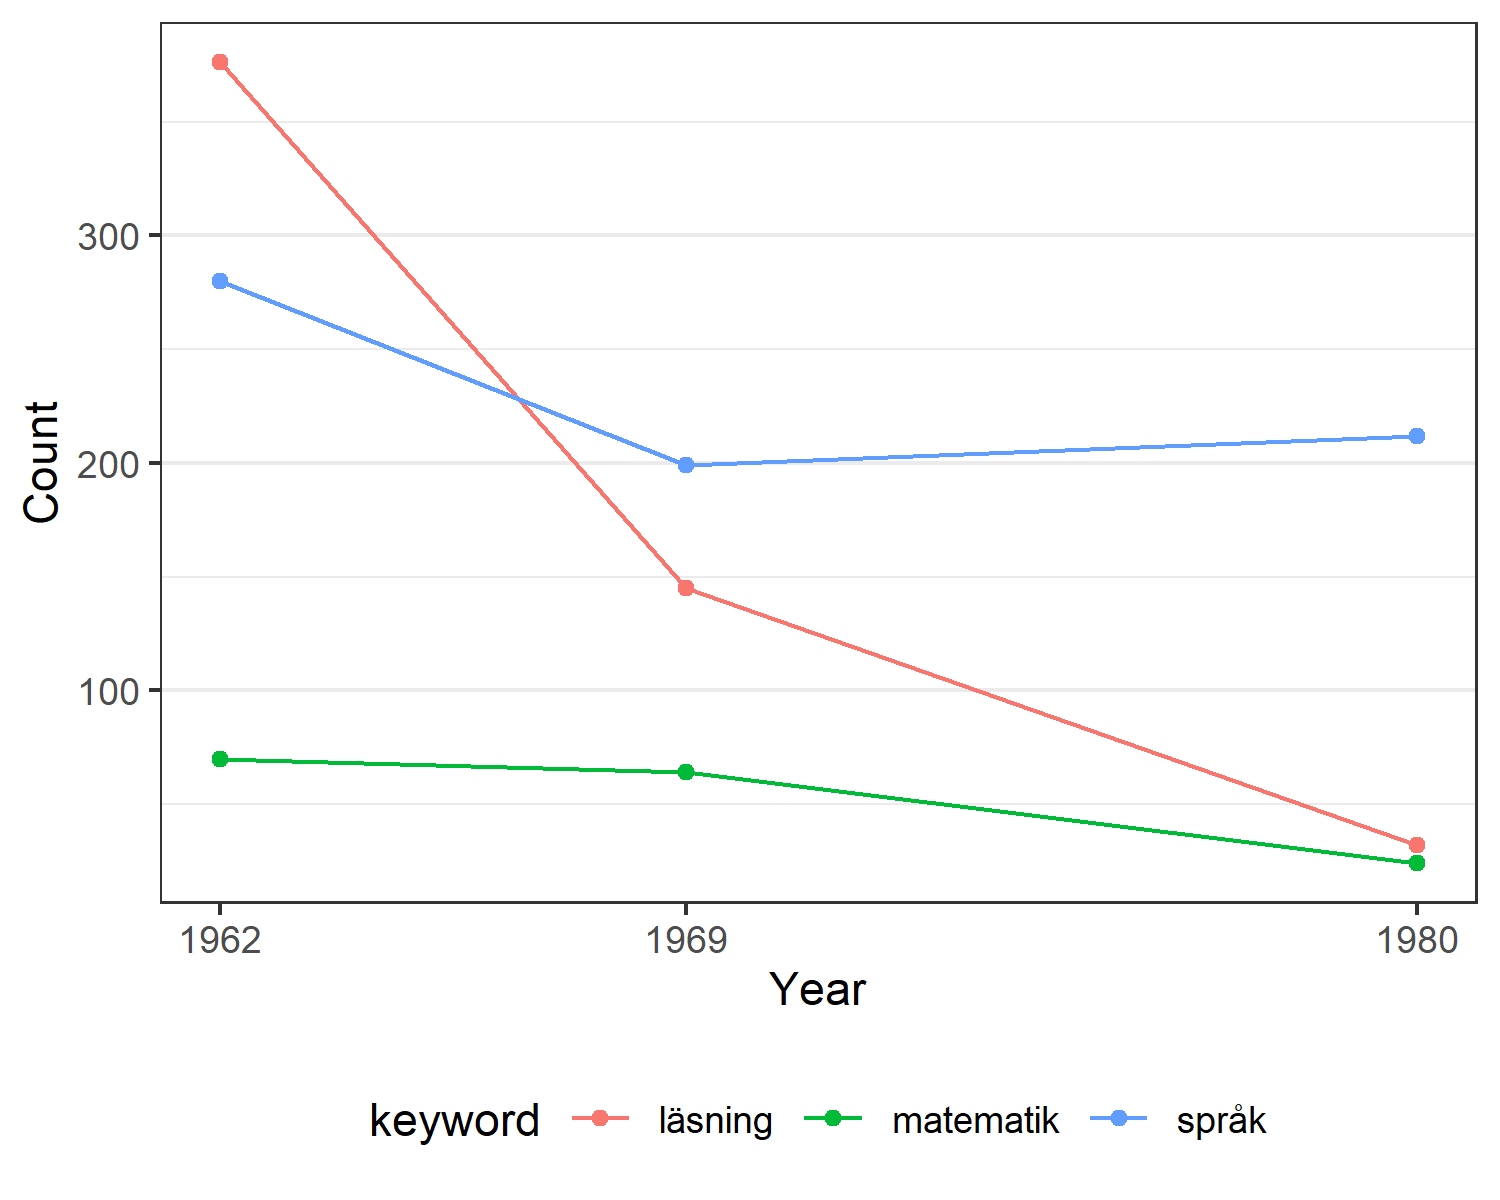
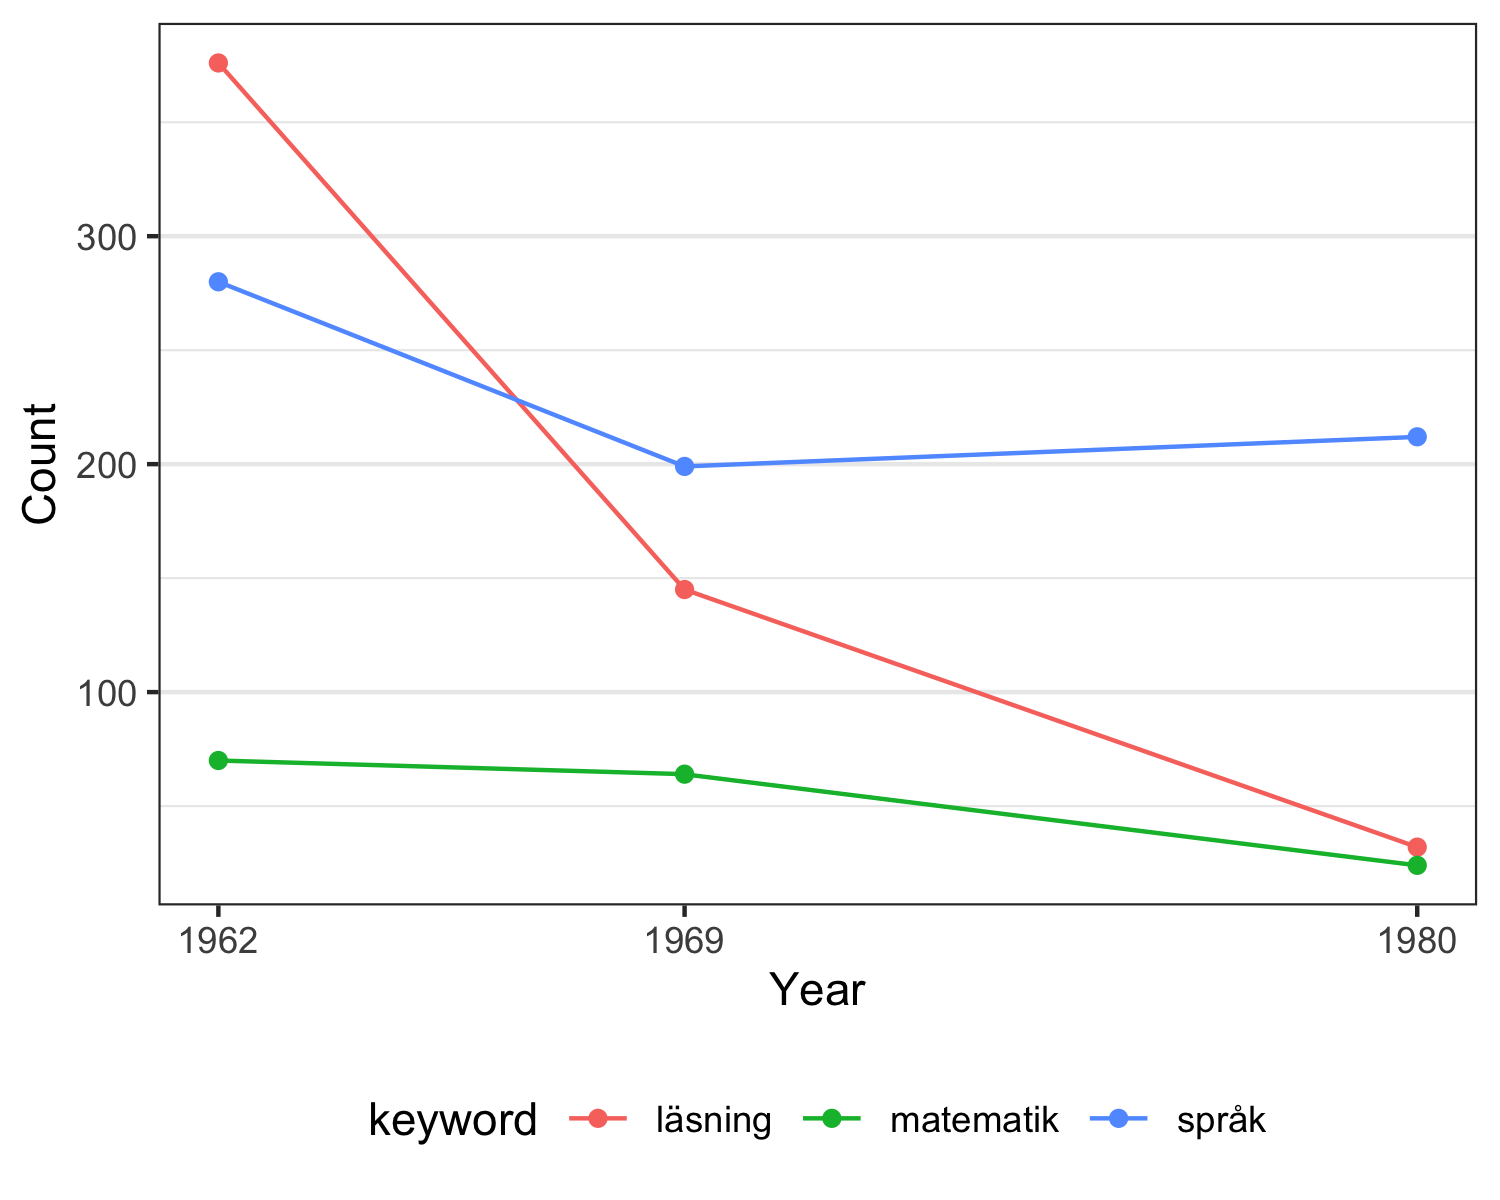
Some edits after concluding review #4 #5

diff --git a/raw/readme.md b/raw/readme.md
@@ -2,7 +2,7 @@
 This directory houses the original Läroplaner för grundskolan.
 
 ### Source
-The following files were downloaded in December 2020 from the corresponding links:
+The following files were downloaded from the website of the [Gothenburg University Publications Electronic Archive (GUPEA)](https://gupea.ub.gu.se) in December 2020 from the corresponding links:
 * [1955](https://gupea.ub.gu.se/handle/2077/51176)
 * [1962](https://gupea.ub.gu.se/handle/2077/50232)
 * [1969](https://gupea.ub.gu.se/handle/2077/30902)

diff --git a/example/README.md b/example/README.md
@@ -17,4 +17,6 @@ Run with `./example/` as working directory.
 
 We show counts for each keyword using the 'wildcard' approach only.
 
-![figure](keywords.png)
+<p align="center">
+    <img src = "./keywords.png" width = "600" >
+</p>
